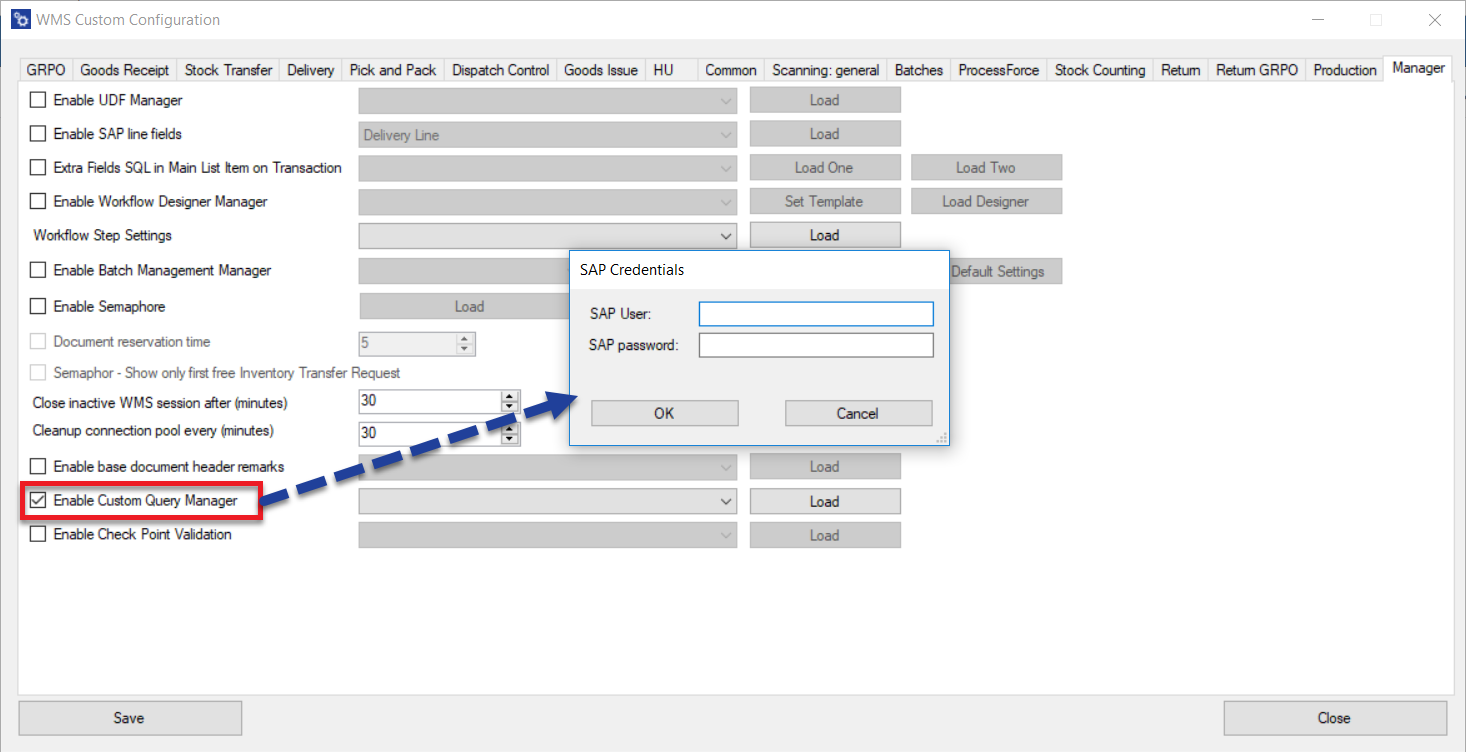
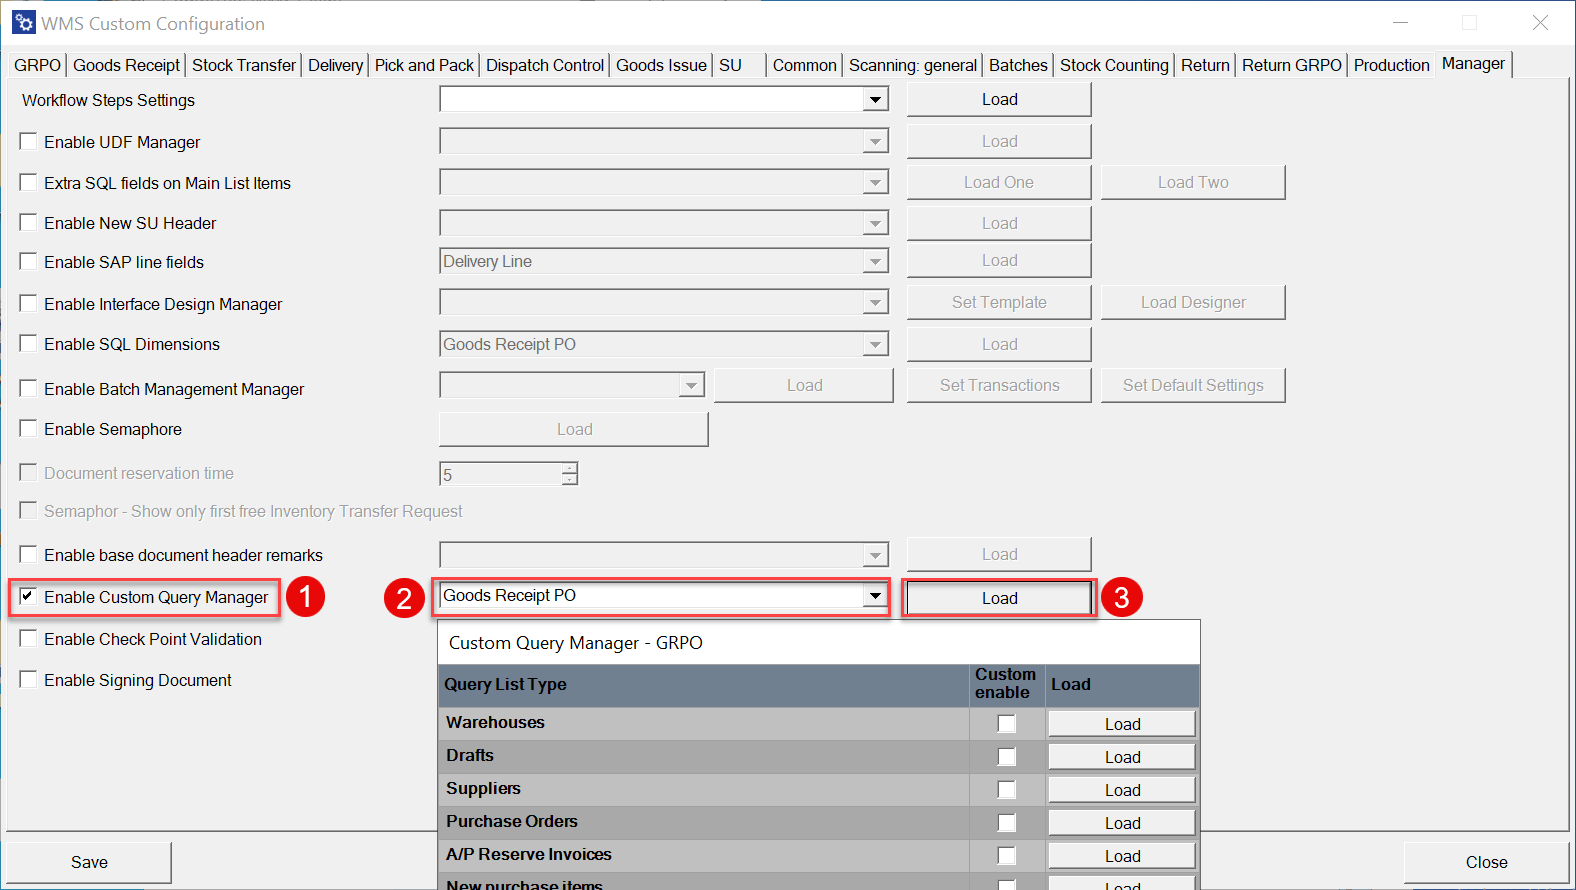
update

diff --git a/docs/wms/administrator-guide/custom-configuration/custom-configuration-functions/grpo.md b/docs/wms/administrator-guide/custom-configuration/custom-configuration-functions/grpo.md
@@ -65,10 +65,10 @@ sidebar_position: 1
     </div>
     </details>
 
-**GRPO SU creator: Allow selection of only one item per SU** – this option prevents the user from picking more than one Item from a base document for an SU when creating it by using SU Creator in Goods Receipt PO transaction. For example, this option can be used, e.g., when we want to create pallets with a single type of Item.
+**GRPO SU creator: Allow selection of only one item per SU** - The error message appears when you select more than one in SU Wizard: Only one item per SU is allowed.
 
-The error message appears when you select more than one in SU Wizard: Only one item per SU is allowed.
-
+    ![Error Message](./media/grpo/error-message.png)
+    {/*
     <details>
     <summary>Click here to expand</summary>
     <div>
@@ -79,19 +79,11 @@ The error message appears when you select more than one in SU Wizard: Only one i
         ![Items Document](./media/grpo/items-document.png) ![Items Document](./media/grpo/items-document-01.png)
     </div>
     </details>
+    */}
 
 **Scan DocNum on the Base Document selection window** – checking this option allows you to scan a document by Docm, not by DocEntry.
 
 **Force manual quantity confirmation** – with this option checked, it is required to manually confirm the quantity previously set up (scanning a barcode does not confirm it automatically).
-
-**Enable adding Items from multiple Warehouses** – if the option is checked, adding Items from different Warehouses is possible, and the Warehouse window will be displayed during the transaction.
-
-    <details>
-    <summary>Click here to expand</summary>
-    <div>
-    ![Warehouse](./media/grpo/document-details-05.png) ![Warehouse](./media/grpo/warehouse-02.png)
-    </div>
-    </details>
 
 **Enable adding Items with Empty Bin Code field** – it allows to add Items without Bin Code to a Warehouse with Bin Locations. If enabled, an Item with an empty Bin Code will be assigned to the first available Bin.
     {/*
@@ -148,7 +140,7 @@ The error message appears when you select more than one in SU Wizard: Only one i
     <details>
     <summary>Click here to expand</summary>
     <div>
-    ![Supplier Reference No.](./media/grpo/supplier-ref.png)
+    ![Supplier Reference No.](./media/grpo/supplier-ref-no.png)
     </div>
     </details>
 
@@ -165,7 +157,7 @@ The error message appears when you select more than one in SU Wizard: Only one i
     <details>
     <summary>Click here to expand</summary>
     <div>
-    ![Auto Quantity](./media/grpo/auto-quantity.png)
+    ![Auto Quantity](./media/grpo/grpo-quantity.png)
     </div>
     </details>
 
@@ -185,9 +177,12 @@ The error message appears when you select more than one in SU Wizard: Only one i
         1. **No action** - No action is performed
         2. **Quantity** - The difference is recorded in the quantity field
         (In No. of Packages, the number of packages is an integer)
-        ![Quantity](./media/grpo/quantity-03.png)
+
+            ![Quantity](./media/grpo/quantity-03.png)
+
         3. **Inventory Quantity** - The difference is recorded in the Qty(Inventory UoM) field
-        ![Inventory Quantity](./media/grpo/inventory-quantity.png)
+
+            ![Inventory Quantity](./media/grpo/inventory-quantity.png)
     </div>
     </details>
 
@@ -195,18 +190,27 @@ The error message appears when you select more than one in SU Wizard: Only one i
 
 Old view of the tab:  Goods Receipt PO.
 
-The following options have been removed: Extra field in Purchase Orders query (1) and Purchase Orders sorting order (2). Functionalities of both of these options can now be used through Custom Query Manager.
+The following options have been removed:
+
+1. Extra field in Purchase Orders query, and
+2. Purchase Orders sorting order
+
+Functionalities of both of these options can now be used through Custom Query Manager.
+
     ![GRPO](./media/grpo/grpo-tab.png)
 
-To set up the options go to Manager tab, check Enable Custom Query Manager checkbox and log in using SAP Business One credentials.
-    ![Custom Query Manager Checkbox](./media/grpo/custom-query-manager-checkbox.png)
+To set up the options go to Manager tab,
 
-Next, choose Goods Receipt PO option and click Load.
-    ![GRPO](./media/grpo/grpo.png)
+1. check Enable Custom Query Manager checkbox
+2. choose Goods Receipt PO option
+3. click Load
+
+    ![Custom Query Manager Checkbox](./media/grpo/custom-query-manager-checkbox.png)
 
 **AD.1 Extra field in Purchase Orders query**
 
 Choose Purchase Order List and click Load button next to it:
+
     ![Purchase Order List](./media/grpo/po-list.png)
 
 Now you can see the information on:
@@ -214,9 +218,11 @@ Now you can see the information on:
 - required fields
 - available parameters
 - filter parameters
+
     ![Fields](./media/grpo/fields-02.png)
 
 You can create your own query, use a default one (by clicking Copy from default button) or modify the default one.
+
     ![Create Own Query](./media/grpo/create-own-query.png)
 
 An example query:
@@ -224,23 +230,27 @@ An example query:
 In this example it is required to display a currency code in the 4 field. It will be done in Goods Receipt PO --> from Purchase Order window, on choosing a purchase document.
 
 Here, you can check the default query:
+
     ![Default Query](./media/grpo/default-query.png)
 
 and a query modified for this example:
+
     ![Modified Query](./media/grpo/modified-query.png)
 
 The following lines have been changed:
 
 | Old Line | New Line |
 | --- | --- |
-| `T0."CardName" AS "Filed4"` | `coalesce(cast(T0."DocCur" AS nvarchar(4000)), '')+'//'+coalesce(cast(T0."CardName" AS nvarchar(4000)), '')) AS "Field4"` |
+| `T0."CardName" AS "Filed4"` | `(coalesce(cast(T0."DocCur" AS nvarchar(4000)), '')\|\|'//'\|\|coalesce(cast(T0."CardName" AS nvarchar(4000)), '')) AS "Field4"`|
 
 The new line takes the following information from the table: a values of a currency code, a sign that will separate the values and on which field it will be displayed.
 
 The screenshots below presents the difference in results between the default and modified for this example queries:
-    ![Order Selection](./media/grpo/order-selection-02.PNG)
+
+    ![Order Selection](./media/grpo/order-selection.png) ![Order Selection](./media/grpo/order-selection-01.png)
 
 Here you can check from where the data is taken for this example:
+
     ![Data](./media/grpo/data.png)
     ![Data](./media/grpo/data-01.png)
 

diff --git a/docs/wms/administrator-guide/custom-configuration/custom-configuration-functions/goods-receipt.md b/docs/wms/administrator-guide/custom-configuration/custom-configuration-functions/goods-receipt.md
@@ -12,11 +12,11 @@ sidebar_position: 2
     <div>
     **Main Document Workflow**
 
-    ![Quantity](./media/goods-receipt/quantity-03.png) ![Document Details](./media/goods-receipt/document-details-03.png)
+    ![Quantity](./media/goods-receipt/main-document-workflow.png)
 
     **Item Details WorkFlow**
     
-    ![Quantity](./media/goods-receipt/quantity-04.png) ![Storage Info](./media/goods-receipt/storage-info.png)
+    ![Quantity](./media/goods-receipt/item-details-workflow.png)
     </div>
     </details>
 
@@ -32,7 +32,7 @@ sidebar_position: 2
      <details>
     <summary>Click here to expand</summary>
     <div>
-    ![Default Project](./media/goods-receipt/default-project.png)
+    ![Default Project](./media/goods-receipt/goods%20receipt-default-project.png)
     </div>
     </details>
 
@@ -64,22 +64,24 @@ sidebar_position: 2
 **Force manual quantity confirmation** – with this option checked, it is required to manually confirm previously set up quantity (scanning a barcode does not confirm it automatically)
 
 **Enable adding Items from multiple Warehouses** – if the option is checked, adding Items from different Warehouses is possible, and the Warehouse window will be displayed during the transaction.
-
+    {/*
     <details>
     <summary>Click here to expand</summary>
     <div>
     ![Document Details](./media/goods-receipt/document-details-02.png) ![Warehouse](./media/goods-receipt/warehouse-02.png)
     </div>
     </details>
+    */}
 
 **Enable adding Items with empty Bin Code field** – it allows to add Items without Bin Code to a Warehouse with Bin Locations. An Item with an empty Bin Code will be assigned to the first available bin if enabled.
-
+    {/*
     <details>
     <summary>Click here to expand</summary>
     <div>
         ![Warehouse](./media/goods-receipt/warehouse-01.png) ![Supplier Selection](./media/goods-receipt/supplier-selection.png) ![Document Details](./media/goods-receipt/document-details-01.png) ![New Item](./media/goods-receipt/new-item.png) ![Quantity](./media/goods-receipt/quantity-02.png)
     </div>
     </details>
+    */}
 
 **Show Cost Dimensions** – checking this checkbox adds a button (next to the Back button) on the Quantity form that leads to the Cost Dimensions form.
 
